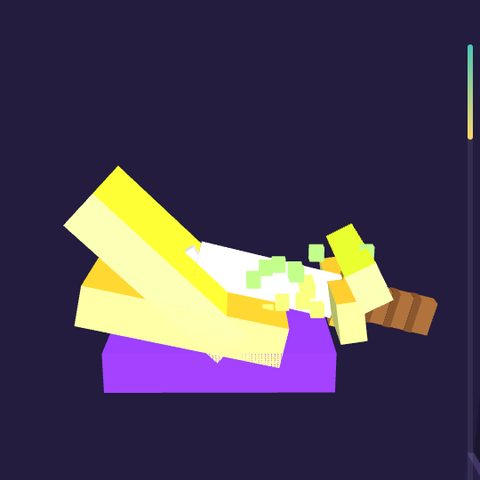
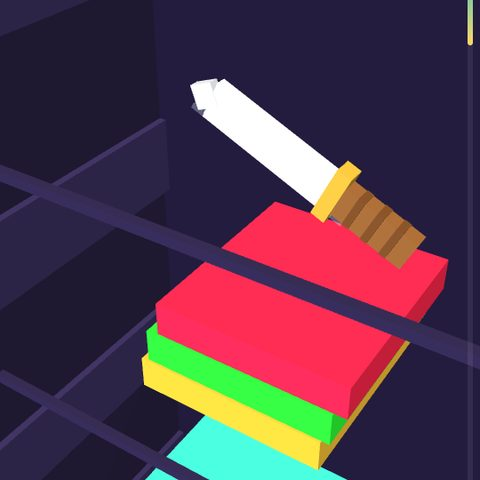
Super Slice 3D v2.0: true three-quarter 3D camera + content pass
Director feedback: v1 camera was dead-on front view and read as flat 2D.
Rebuilt the rig as the hyper-casual three-quarter chase: camera high on
the open +x side looking down and across the shaft, so slab tops and
sides recede in real perspective; intro sweep reels in from wide at
level start. Near wall removed (physics walls unchanged), far wall +
back deepened, floating depth rings for speed parallax, fog opened up,
slabs deepened 7 -> 10 so tops read.
Content: GOLD bonus stacks (+60, big burst), hand-stacked x-wobble on
soft towers, white spin-trail on the blade while flipping, and score
popups projected from 3D world space onto the screen.
Verified: full bot run 26 slabs sliced, x26 combo, x3 center landing,
0 errors; screenshot confirms the angled look; portal thumb re-shot.

diff --git a/satellites/slice-3d/index.html b/satellites/slice-3d/index.html
@@ -63,6 +63,9 @@ h2.sc-h{font-size:24px; color:var(--gold); font-weight:800; margin-bottom:4px}
 .go-score{font-size:58px; font-weight:800; color:var(--gold); line-height:1; font-variant-numeric:tabular-nums}
 .go-lab{font-size:13px; letter-spacing:3px; text-transform:uppercase; color:var(--muted); margin-top:4px}
 .stars{font-size:34px; letter-spacing:8px; margin-top:8px}
+#pops{position:absolute; inset:0; pointer-events:none; z-index:24; overflow:hidden}
+.pop3d{position:absolute; font-weight:800; font-size:22px; text-shadow:0 2px 8px #000c; transform:translate(-50%,-50%); animation:popFloat 0.9s ease-out forwards}
+@keyframes popFloat{ 0%{opacity:0; margin-top:6px; transform:translate(-50%,-50%) scale(0.7)} 15%{opacity:1; transform:translate(-50%,-50%) scale(1.15)} 100%{opacity:0; margin-top:-52px; transform:translate(-50%,-50%) scale(1)} }
 #b-music{flex:0 0 64px; font-size:20px}
 #b-music.playing{border-color:#ffd76a; box-shadow:0 0 0 2px rgba(255,215,106,.3),0 0 16px rgba(255,215,106,.4)}
 </style>
@@ -104,6 +107,7 @@ h2.sc-h{font-size:24px; color:var(--gold); font-weight:800; margin-bottom:4px}
     <div class="hud"><div class="sc" id="h-score">0</div><div class="lv" id="h-lvl">LEVEL 1</div></div>
     <div class="combo" id="h-combo">x2</div>
     <div id="depthbar"><div id="depthfill"></div></div>
+    <div id="pops"></div>
     <button class="tbtn" id="b-home">&#8249;</button>
   </div>
 
@@ -130,7 +134,7 @@ h2.sc-h{font-size:24px; color:var(--gold); font-weight:800; margin-bottom:4px}
 <script>
 (function(){
 "use strict";
-var BUILD="v1.0";
+var BUILD="v2.0";
 function $(id){ return document.getElementById(id); }
 function tap(id,fn){ var el=$(id); if(el)el.addEventListener('click',function(e){e.preventDefault();fn();}); }
 
@@ -186,7 +190,7 @@ function mulberry32(a){ return function(){ a|=0; a=(a+0x6D2B79F5)|0; var t=Math.
    pad at the bottom with center-multiplier zones.
    ===================================================================== */
 var SW=15;            // shaft half-width
-var renderer=null, scene=null, camera=null, knife=null, blade=null;
+var renderer=null, scene=null, camera=null, knife=null, blade=null, trail=null;
 var slabs=[], chunks=[], sparks=[];
 var G=null, running=false, lastTs=0;
 
@@ -199,7 +203,7 @@ function initGL(){
   }catch(e){ return false; }
   scene=new THREE.Scene();
   scene.background=new THREE.Color(0x161226);
-  scene.fog=new THREE.Fog(0x161226, 46, 110);
+  scene.fog=new THREE.Fog(0x161226, 52, 130);
   camera=new THREE.PerspectiveCamera(55, 540/960, 0.1, 300);
   var amb=new THREE.AmbientLight(0xffffff, 0.62); scene.add(amb);
   var sun=new THREE.DirectionalLight(0xfff2d8, 0.85); sun.position.set(10,30,26); scene.add(sun);
@@ -227,25 +231,29 @@ function buildKnife(){
   handle.position.x=3.9; knife.add(handle);
   for(var i=0;i<3;i++){ var band=new THREE.Mesh(new THREE.BoxGeometry(0.34,1.56,0.84), woodD);
     band.position.set(2.9+i*0.95,0,0); knife.add(band); }
+  trail=new THREE.Mesh(new THREE.BoxGeometry(8.2,0.24,0.22), new THREE.MeshBasicMaterial({color:0xdfe9ff, transparent:true, opacity:0}));
+  trail.position.set(-1.4,-1.05,0); knife.add(trail);
   scene.add(knife);
 }
 
 function shaftDecor(depth){
+  // Three-quarter view: the camera sits high on the +x side looking down
+  // and across, so only the FAR (left) wall and back panel are built.
+  // The near side stays open to the void; physics walls are independent.
   var group=new THREE.Group();
   var wallMat=new THREE.MeshLambertMaterial({color:0x241e3c});
-  var wallL=new THREE.Mesh(new THREE.BoxGeometry(2, depth+120, 22), wallMat);
-  wallL.position.set(-SW-1, -depth/2+20, -2); group.add(wallL);
-  var wallR=new THREE.Mesh(new THREE.BoxGeometry(2, depth+120, 22), wallMat);
-  wallR.position.set(SW+1, -depth/2+20, -2); group.add(wallR);
-  var back=new THREE.Mesh(new THREE.BoxGeometry(SW*2+4, depth+120, 2), new THREE.MeshLambertMaterial({color:0x1b1630}));
-  back.position.set(0, -depth/2+20, -9); group.add(back);
-  // wall stripes for a sense of speed
+  var wallL=new THREE.Mesh(new THREE.BoxGeometry(2, depth+140, 26), wallMat);
+  wallL.position.set(-SW-1, -depth/2+20, -3); group.add(wallL);
+  var back=new THREE.Mesh(new THREE.BoxGeometry(SW*2+8, depth+140, 2), new THREE.MeshLambertMaterial({color:0x1b1630}));
+  back.position.set(0, -depth/2+20, -11); group.add(back);
+  // ledge stripes down the far wall + floating depth rings for speed feel
   var stripeMat=new THREE.MeshLambertMaterial({color:0x352c58});
+  var ringMat=new THREE.MeshLambertMaterial({color:0x2c2448});
   for(var y=10; y>-depth-30; y-=14){
-    var sL=new THREE.Mesh(new THREE.BoxGeometry(0.6,5,20), stripeMat);
-    sL.position.set(-SW+0.1, y, -2); group.add(sL);
-    var sR=new THREE.Mesh(new THREE.BoxGeometry(0.6,5,20), stripeMat);
-    sR.position.set(SW-0.1, y, -2); group.add(sR);
+    var sL=new THREE.Mesh(new THREE.BoxGeometry(0.7,5,24), stripeMat);
+    sL.position.set(-SW+0.1, y, -3); group.add(sL);
+    var rg=new THREE.Mesh(new THREE.BoxGeometry(SW*2+4,0.5,0.5), ringMat);
+    rg.position.set(0, y-7, 5.4); group.add(rg);
   }
   return group;
 }
@@ -262,7 +270,7 @@ function makeSlab(x,y,w,colors,hard){
   var mat = hard
     ? new THREE.MeshLambertMaterial({color:0x6e6a7c})
     : new THREE.MeshLambertMaterial({color:colors.outer});
-  var m=new THREE.Mesh(new THREE.BoxGeometry(w,1.7,7), mat);
+  var m=new THREE.Mesh(new THREE.BoxGeometry(w,1.7,10), mat);
   m.position.set(x,y,0);
   scene.add(m);
   return {mesh:m, x:x, y:y, w:w, hard:!!hard, inner:hard?0x8a8698:colors.inner, outer:hard?0x6e6a7c:colors.outer, sliced:false};
@@ -289,11 +297,16 @@ function buildLevel(lvl){
     var w=9+rng()*11;
     var cx=(rng()*2-1)*(SW-2-w/2);
     var hardStack = lvl>=3 && rng()<Math.min(0.22, 0.06+lvl*0.012);
+    var goldStack = !hardStack && rng()<0.09;
+    if(goldStack) stackN=Math.min(stackN,2);
     var cols=slabColors(rng);
     for(var k=0;k<stackN;k++){
       // each layer of a soft stack gets its own colour: cutting reveals a rainbow
       var layerCols = hardStack ? cols : slabColors(rng);
-      slabs.push(makeSlab(cx, y-k*1.85, w, layerCols, hardStack));
+      var jx = hardStack ? 0 : (rng()*2-1)*0.9; // hand-stacked wobble
+      var sl = makeSlab(cx+jx, y-k*1.85, w, goldStack?{outer:0xffd76a,inner:0xfff3c0}:layerCols, hardStack);
+      if(goldStack){ sl.gold=true; sl.mesh.material.color.setHex(0xffd76a); }
+      slabs.push(sl);
     }
     y-=stackN*1.85 + 9 + rng()*9;
   }
@@ -320,6 +333,7 @@ function newGame(lvl){
       score:0, combo:0, comboBest:0, slices:0, rocks:0,
       done:false, doneT:0, shake:0, sbRun:0, t:0 };
   knife.position.set(0,14,0); knife.rotation.z=0;
+  camera.position.set(4, 44, 52); // intro sweep: the chase lerp reels it in
   $('h-score').textContent='0';
   $('h-lvl').textContent='LEVEL '+lvl;
   $('h-combo').classList.remove('on');
@@ -353,6 +367,23 @@ document.addEventListener('keydown',function(e){
   else if(e.key===' '){ e.preventDefault(); flip(G.vx>=0?1:-1); }
 });
 
+/* score popups projected from world space onto the stage */
+function popup(txt, wx, wy, color){
+  if(!camera) return;
+  var el=$('pops'); if(!el) return;
+  var v=new THREE.Vector3(wx, wy, 0);
+  v.project(camera);
+  if(v.z>1) return;
+  var d=document.createElement('div');
+  d.className='pop3d';
+  d.style.left=((v.x*0.5+0.5)*540).toFixed(0)+'px';
+  d.style.top=((-v.y*0.5+0.5)*960).toFixed(0)+'px';
+  d.style.color=color||'#fff';
+  d.textContent=txt;
+  el.appendChild(d);
+  setTimeout(function(){ if(d.parentNode)d.parentNode.removeChild(d); }, 950);
+}
+
 /* ---------- slicing ---------- */
 function spawnChunk(x,y,w,inner,outer,vx,spin){
   // half-slab with the cut face glowing in the inner colour
@@ -366,7 +397,7 @@ function spawnChunk(x,y,w,inner,outer,vx,spin){
   ];
   // cut face = the side facing the blade
   mats[vx<0?0:1]=new THREE.MeshLambertMaterial({color:inner});
-  var m=new THREE.Mesh(new THREE.BoxGeometry(Math.max(0.8,w),1.7,7), mats);
+  var m=new THREE.Mesh(new THREE.BoxGeometry(Math.max(0.8,w),1.7,10), mats);
   m.position.set(x,y,0);
   scene.add(m);
   chunks.push({mesh:m, vx:vx, vy:3+Math.random()*4, vr:spin, life:1.5});
@@ -386,11 +417,13 @@ function sliceSlab(s){
   var lw=cut-(s.x-s.w/2), rw=(s.x+s.w/2)-cut;
   spawnChunk(cut-lw/2-0.3, s.y, lw, s.inner, s.outer, -7-Math.random()*5, -(2+Math.random()*3));
   spawnChunk(cut+rw/2+0.3, s.y, rw, s.inner, s.outer, 7+Math.random()*5, (2+Math.random()*3));
-  spawnSparks(cut, s.y, s.inner, 7);
+  spawnSparks(cut, s.y, s.inner, s.gold?16:7);
   G.combo=Math.min(G.combo+1,30);
   if(G.combo>G.comboBest)G.comboBest=G.combo;
   G.slices++;
-  G.score+=10*G.combo;
+  var pts=10*G.combo + (s.gold?60:0);
+  G.score+=pts;
+  popup('+'+pts, s.x, s.y, s.gold?'#ffd76a':'#ffffff');
   G.vy*=0.5; if(G.vy>-3)G.vy=-3;   // the satisfying knife-through-butter catch
   G.shake=Math.min(0.2,0.08+G.combo*0.004);
   SFX.slice(G.combo);
@@ -450,9 +483,10 @@ function loop(ts){
     if(G.doneT>1.15){ running=false; finishLevel(); return; }
   }
 
-  // knife transform
+  // knife transform + spin trail glow
   knife.position.set(G.x,G.y,0);
   knife.rotation.z=G.rot;
+  if(trail)trail.material.opacity=Math.min(0.65, Math.abs(G.spin)*0.055);
 
   // chunks fall away
   for(var c=chunks.length-1;c>=0;c--){
@@ -469,14 +503,15 @@ function loop(ts){
   }
   if(G.shake>0)G.shake=Math.max(0,G.shake-dt*1.6);
 
-  // camera chase with a little shake
-  var cy=G.y+7.5, cz=34;
-  camera.position.x+= (G.x*0.35 - camera.position.x)*Math.min(1,dt*5);
-  camera.position.y+= (cy - camera.position.y)*Math.min(1,dt*7);
-  camera.position.z=cz;
+  // THREE-QUARTER CHASE CAM — high on the open side, looking down and
+  // across the shaft so slab tops and sides recede in real perspective.
+  var camT={ x:G.x*0.3+13, y:G.y+15, z:26 };
+  camera.position.x+=(camT.x-camera.position.x)*Math.min(1,dt*4.5);
+  camera.position.y+=(camT.y-camera.position.y)*Math.min(1,dt*7);
+  camera.position.z+=(camT.z-camera.position.z)*Math.min(1,dt*4.5);
   var kx=G.shake>0?(Math.random()*2-1)*G.shake*1.6:0;
   camera.position.x+=kx;
-  camera.lookAt(G.x*0.35, G.y-1.5, 0);
+  camera.lookAt(G.x*0.3-4, G.y-7, -2);
 
   renderer.render(scene,camera);
   requestAnimationFrame(loop);
